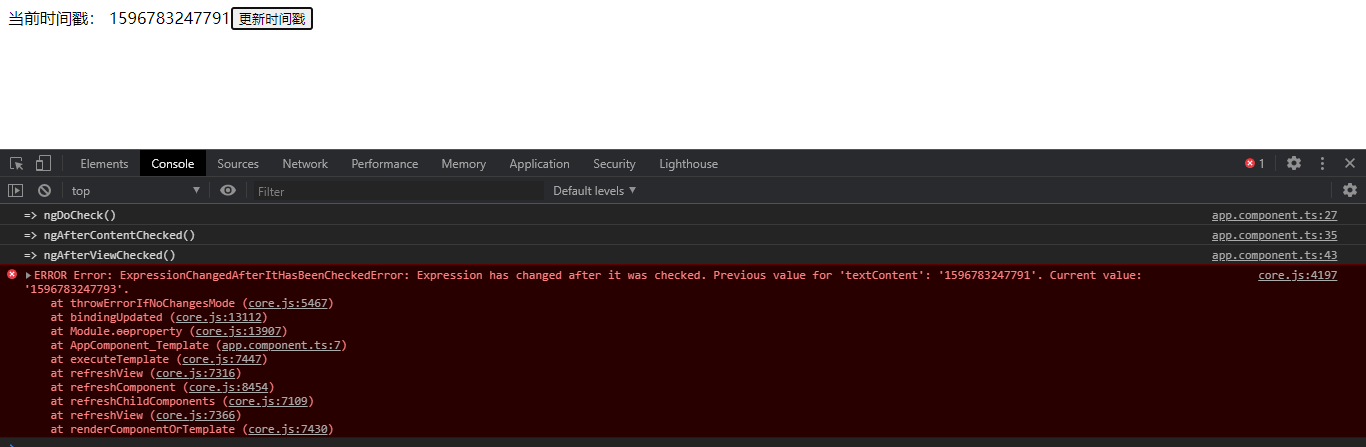
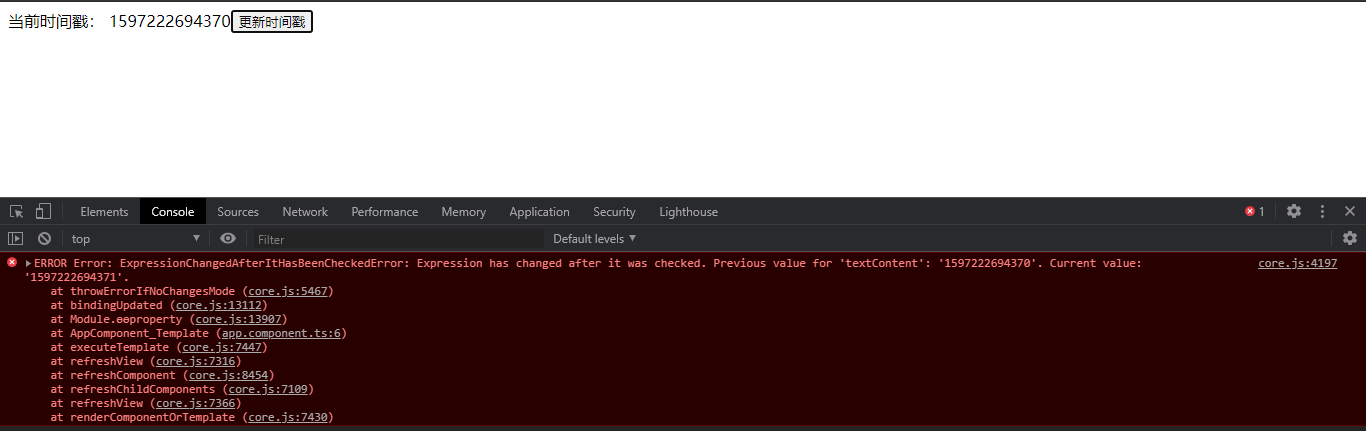
Update ...

Changed region(s): [[0.0, 0.3318, 1.0, 0.7239], [0.0, 0.7541, 1.0, 0.9954], [0.0, 0.0, 1.0, 0.0905]]

diff --git a/collections/_posts/2020-08-06-Angular-Change-Detection-Part-I.md b/collections/_posts/2020-08-06-Angular-Change-Detection-Part-I.md
@@ -8,7 +8,7 @@ title: Angular Change Detection (Part I)
 
 ## 二. 什么是 Change Detection
 
-Change Detection 是一种跟踪应用程序状态以及变化，并将状态及变化更新到屏幕上的机制。它确保用户看到的状态与程序的状态保持一致。由两部分组成：1. 状态跟踪，2. 渲染。
+Change Detection 是一种跟踪应用程序状态及其变化，并将状态及其变化更新到屏幕上的机制。它确保用户看到的状态与程序的状态保持一致。由两部分组成：1. 状态跟踪，2. 渲染。
 
 ## 三. Change Detection 在 Angular 中的实现
 
@@ -32,9 +32,9 @@ export class AppComponent {
 }
 ```
 
-上面例子中我们将组件的 n 属性与 span 元素的 textContent 属性进行了绑定。当点击更新时间戳按钮时，update 方法被执行，并且触发了 Change Detection。这时 Angular 重新计算绑定中的表达式，这里的表达式就只是取组件的 n 属性的值。Angular 发现当前的 n （时间戳）和之前的时间戳不同，于是更新了 span 元素的 textContent 属性，新的时间戳被显示在页面上。
+上面例子中我们将组件的属性 n 与 span 元素的 textContent 属性进行了绑定。当点击更新时间戳按钮时，update 方法被执行，并且触发了 Change Detection。这时 Angular 重新计算绑定中的表达式，这里的表达式就只是取组件的属性 n 的值。Angular 发现当前的 n （时间戳）和之前的时间戳不同，于是更新了 span 元素的 textContent 属性，新的时间戳被显示在页面上。
 
-## 二. ExpressionChangedAfterItHasBeenCheckedError
+## 四. ExpressionChangedAfterItHasBeenCheckedError
 
 在使用 Angular 的过程中，有时由于我们的代码逻辑问题，在开发模式下 Angular 会抛出 ExpressionChangedAfterItHasBeenCheckedError 异常。通过下面的例子我们来重现并且分析它。
 
@@ -52,42 +52,10 @@ export class AppComponent {
   get n(): number {
     return Date.now();
   }
-
-  ngOnChanges(): void {
-    console.log("=> ngOnChanges()");
-  }
-
-  ngOnInit(): void {
-    console.log("=> ngOnInit()");
-  }
-
-  ngDoCheck(): void {
-    console.log("=> ngDoCheck()");
-  }
-
-  ngAfterContentInit(): void {
-    console.log("=> ngAfterContentInit()");
-  }
-
-  ngAfterContentChecked(): void {
-    console.log("=> ngAfterContentChecked()");
-  }
-
-  ngAfterViewInit(): void {
-    console.log("=> ngAfterViewInit()");
-  }
-
-  ngAfterViewChecked(): void {
-    console.log("=> ngAfterViewChecked()");
-  }
-
-  ngOnDestroy(): void {
-    console.log("=> ngOnDestroy()");
-  }
 }
 ```
 
-在上面的例子中我们将 getter n 返回的时间戳绑定到了 span 的 textContent 属性上，并且添加了 log 来记录 Angular 组件 lifecycle hook 方法的调用。当我们点击更新时间戳按钮时，你会看到 ExpressionChangedAfterItHasBeenCheckedError 异常被抛出。如下所示：
+在上面的例子中我们将 getter n 返回的时间戳绑定到了 span 的 textContent 属性上，当我们点击更新时间戳按钮时，你会看到 ExpressionChangedAfterItHasBeenCheckedError 异常被抛出。如下所示：
 
 ![screenshot](/assets/images/expression-changed-afterIt-has-been-checked-error.png)
 
@@ -127,38 +95,6 @@ export class AppComponent {
   update() {
     this.v = Date.now();
   }
-
-  ngOnChanges(): void {
-    console.log("=> ngOnChanges()");
-  }
-
-  ngOnInit(): void {
-    console.log("=> ngOnInit()");
-  }
-
-  ngDoCheck(): void {
-    console.log("=> ngDoCheck()");
-  }
-
-  ngAfterContentInit(): void {
-    console.log("=> ngAfterContentInit()");
-  }
-
-  ngAfterContentChecked(): void {
-    console.log("=> ngAfterContentChecked()");
-  }
-
-  ngAfterViewInit(): void {
-    console.log("=> ngAfterViewInit()");
-  }
-
-  ngAfterViewChecked(): void {
-    console.log("=> ngAfterViewChecked()");
-  }
-
-  ngOnDestroy(): void {
-    console.log("=> ngOnDestroy()");
-  }
 }
 ```
 
@@ -187,38 +123,6 @@ export class AppComponent {
     setInterval(() => {
       this.v = Date.now();
     }, 1000);
-  }
-
-  ngOnChanges(): void {
-    console.log("=> ngOnChanges()");
-  }
-
-  ngOnInit(): void {
-    console.log("=> ngOnInit()");
-  }
-
-  ngDoCheck(): void {
-    console.log("=> ngDoCheck()");
-  }
-
-  ngAfterContentInit(): void {
-    console.log("=> ngAfterContentInit()");
-  }
-
-  ngAfterContentChecked(): void {
-    console.log("=> ngAfterContentChecked()");
-  }
-
-  ngAfterViewInit(): void {
-    console.log("=> ngAfterViewInit()");
-  }
-
-  ngAfterViewChecked(): void {
-    console.log("=> ngAfterViewChecked()");
-  }
-
-  ngOnDestroy(): void {
-    console.log("=> ngOnDestroy()");
   }
 }
 ```
@@ -249,43 +153,13 @@ export class AppComponent {
       }, 1000);
     });
   }
-
-  ngOnChanges(): void {
-    console.log("=> ngOnChanges()");
-  }
-
-  ngOnInit(): void {
-    console.log("=> ngOnInit()");
-  }
-
-  ngDoCheck(): void {
-    console.log("=> ngDoCheck()");
-  }
-
-  ngAfterContentInit(): void {
-    console.log("=> ngAfterContentInit()");
-  }
-
-  ngAfterContentChecked(): void {
-    console.log("=> ngAfterContentChecked()");
-  }
-
-  ngAfterViewInit(): void {
-    console.log("=> ngAfterViewInit()");
-  }
-
-  ngAfterViewChecked(): void {
-    console.log("=> ngAfterViewChecked()");
-  }
-
-  ngOnDestroy(): void {
-    console.log("=> ngOnDestroy()");
-  }
 }
 ```
 
-这次正确了，内存中的时间戳变量每秒都在更新，但是并没有触发 Change Detection ，所以页面没用发生变化。当我们点击按钮时才触发 Change Detection 的执行，页面才被刷新。我们可以使用 runOutsideAngular 方法集成一些第三方库，例如：pixijs 到 Angluar 的应用中。
+这次正确了，内存中的时间戳变量每秒都在更新，但是并没有触发 Change Detection ，所以页面没用发生变化。当我们点击按钮时才触发 Change Detection 的执行，页面才被刷新。
+
+我们可以使用 runOutsideAngular 方法将 Angular 与第三方库进行集成，使第三方库在 Angular 之外运行，避免触发不必要的 Change Detection。
 
 ## 总结
 
-这篇文章是 Angular Change Detection 的第一部分内容，我们接触了 Change Detection ，知道了 ExpressionChangedAfterItHasBeenCheckedError 错误的原因，在第二部分我们将介绍如何控制组件的 Change Detection 。
+这篇文章是 Angular Change Detection 的第一部分，我们接触了 Change Detection ，知道了 ExpressionChangedAfterItHasBeenCheckedError 错误的原因，在第二部分我们将介绍如何控制组件的 Change Detection 。
